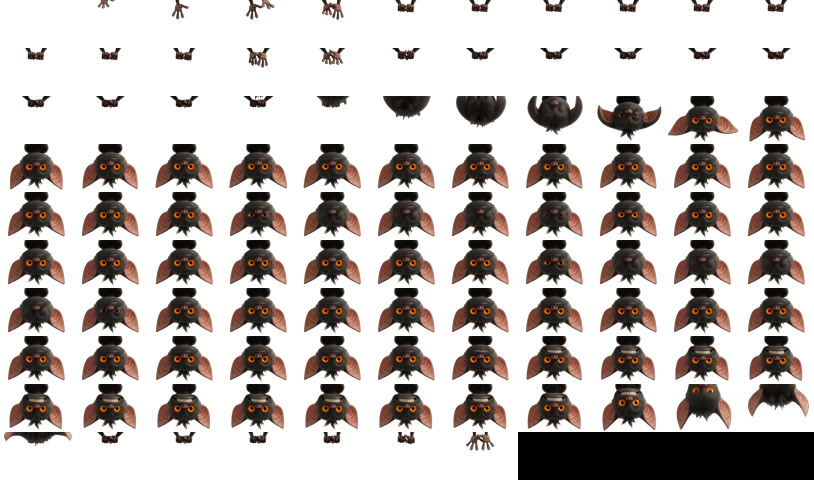
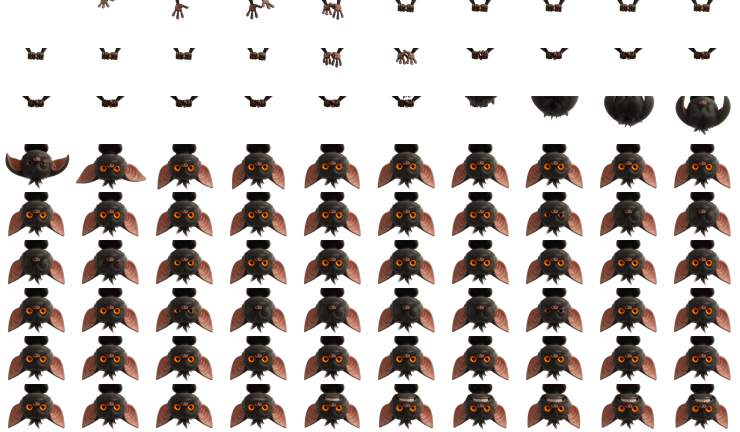
Bar in front of the body, hands in front of the bar
The creature climbs down from BEHIND the bar, so the bar has to occlude its
body - but its fingers curl over the front face and must draw on top. A single
window can only be above the bar or below it, so this renders the same sheet
twice from one frame counter:

  overlay (3)  hands slice, rows [0, handRows)
  top     (2)  the bar
  bottom  (1)  body slice,  rows [handRows, frameH)

The Sprite component gained srcTop/srcRows to render a row window of each frame,
and k is now set by the owner from the FULL frame height so both slices scale
identically and cannot drift. The hands slice binds its frame to the body's, so
they stay in lockstep, and its mask is empty - every click passes through it.

Also cut the sheet at frame 99. Frames 100-105 were hands-only, which is what
was lingering at the end, and the thin dark vertical mark lived between them.
90 frames now.

diff --git a/BarWidget.qml b/BarWidget.qml
@@ -48,7 +48,7 @@ Item {
   readonly property bool ownsHang:
     Quickshell.screens.length > 0 && Screen.name === Quickshell.screens[0].name
 
-  readonly property int spriteFrames: 106
+  readonly property int spriteFrames: 90
 
   // A sprite sheet played by translating one clipped Image.
   //
@@ -65,12 +65,20 @@ Item {
     property int    frameH: 180
     property int    frames: 42
     property int    fps: 12
+    // Render only rows [srcTop, srcTop+srcRows) of each frame. Lets one sheet
+    // and one frame counter drive two views on different layers, so the bar can
+    // sit between the creature's body and its hands.
+    property int    srcTop: 0
+    property int    srcRows: 0          // 0 = whole frame
     property int    frame: 0
     property bool   reverse: false
     signal finished()
 
     clip: true
-    readonly property real k: height > 0 ? height / frameH : 1
+    readonly property int rows: srcRows > 0 ? srcRows : frameH
+    // k is set by the owner from the FULL frame height, not this slice, so two
+    // slices of the same sheet scale identically and stay aligned.
+    property real k: height > 0 ? height / frameH : 1
 
     // Fade the tail. Even with a clean exit in the source, cutting straight to
     // nothing on the last frame reads as the animation breaking rather than
@@ -79,13 +87,14 @@ Item {
     opacity: (ticker.running && sp.frame > sp.frames - sp.fadeFrames)
              ? Math.max(0, (sp.frames - sp.frame) / sp.fadeFrames) : 1
     implicitWidth: Math.round(frameW * k)
+    implicitHeight: Math.round(rows * k)
 
     Image {
       source: sp.sheet
       width:  Math.round(sp.cols * sp.frameW * sp.k)
       height: Math.round(Math.ceil(sp.frames / sp.cols) * sp.frameH * sp.k)
       x: -Math.round((sp.frame % sp.cols) * sp.frameW * sp.k)
-      y: -Math.round(Math.floor(sp.frame / sp.cols) * sp.frameH * sp.k)
+      y: -Math.round((Math.floor(sp.frame / sp.cols) * sp.frameH + sp.srcTop) * sp.k)
       smooth: true
       cache: true
     }
@@ -141,35 +150,84 @@ Item {
   Loader { id: peekL;    active: root.style === "peek";    anchors.fill: parent; sourceComponent: peekComp }
 
   // ---------------- hang ----------------
+  //
+  // TWO layer surfaces, not one. The creature climbs down from behind the bar,
+  // so the bar must occlude its body - but its fingers curl over the front of
+  // the bar and must be drawn on top of it. A single window can only be above
+  // or below; this is the sandwich:
+  //
+  //     overlay (3)  hands slice   <- rows [0, handRows)
+  //     top     (2)  the bar itself
+  //     bottom  (1)  body slice    <- rows [handRows, frameH)
+  //
+  // One sheet, one frame counter: the hands slice binds its frame to the body
+  // slice, so they can never drift apart.
   Component {
     id: hangComp
-    PanelWindow {
-      id: win
-      // exclusionMode Ignore is mandatory: a layer surface that reserves space
-      // would push every window on the screen down to make room for a gremlin.
-      visible: !root.away && (root.watching || sprite.playing)
-      anchors { top: true; left: true; right: true }
-      implicitHeight: root.barPixels + root.hangHeight
-      color: "transparent"
-      WlrLayershell.namespace: "omarchy-gremlins-hang"
-      WlrLayershell.layer: WlrLayer.Overlay
-      WlrLayershell.keyboardFocus: WlrKeyboardFocus.None
-      exclusionMode: ExclusionMode.Ignore
-      mask: Region { item: sprite }   // only the creature takes clicks
+    Item {
+      id: hangRoot
+      property alias sprite: bodySprite
 
-      function arrive() { sprite.play(false) }
+      function arrive() { bodySprite.play(false) }
       function leave()  { }        // the sheet ends with it already gone
-      function reset()  { sprite.halt(); sprite.frame = 0 }
+      function reset()  { bodySprite.halt(); bodySprite.frame = 0 }
 
-      Sprite {
-        id: sprite
-        sheet: Qt.resolvedUrl("assets/descend-big.png")
-        cols: 11; frameW: 247; frameH: 160; frames: root.spriteFrames; fps: 12
-        height: root.hangHeight
-        width: Math.round(root.hangHeight * 247 / 160)
-        y: root.barPixels - root.gripOverlap
-        x: Math.round((win.width - width) * root.hangX)
-        MouseArea { anchors.fill: parent; cursorShape: Qt.PointingHandCursor; onClicked: root.trigger() }
+      readonly property real k: root.hangHeight / 160
+      readonly property int  handRows: Math.max(1, Math.round(root.gripOverlap / k))
+      readonly property int  spriteW: Math.round(247 * k)
+
+      // body - beneath the bar
+      PanelWindow {
+        id: bodyWin
+        visible: !root.away && (root.watching || bodySprite.playing)
+        anchors { top: true; left: true; right: true }
+        implicitHeight: root.barPixels + root.hangHeight
+        color: "transparent"
+        WlrLayershell.namespace: "omarchy-gremlins-body"
+        WlrLayershell.layer: WlrLayer.Bottom
+        WlrLayershell.keyboardFocus: WlrKeyboardFocus.None
+        exclusionMode: ExclusionMode.Ignore
+        mask: Region { item: bodySprite }
+
+        Sprite {
+          id: bodySprite
+          sheet: Qt.resolvedUrl("assets/descend-big.png")
+          cols: 10; frameW: 247; frameH: 160; frames: root.spriteFrames; fps: 12
+          k: hangRoot.k
+          srcTop: hangRoot.handRows
+          srcRows: 160 - hangRoot.handRows
+          x: Math.round((bodyWin.width - hangRoot.spriteW) * root.hangX)
+          y: root.barPixels
+          MouseArea { anchors.fill: parent; cursorShape: Qt.PointingHandCursor; onClicked: root.trigger() }
+        }
+      }
+
+      // hands - above the bar. Fully click-through: an empty mask means every
+      // click passes straight through to whatever is underneath.
+      PanelWindow {
+        id: handWin
+        visible: bodyWin.visible
+        anchors { top: true; left: true; right: true }
+        implicitHeight: root.barPixels
+        color: "transparent"
+        WlrLayershell.namespace: "omarchy-gremlins-hands"
+        WlrLayershell.layer: WlrLayer.Overlay
+        WlrLayershell.keyboardFocus: WlrKeyboardFocus.None
+        exclusionMode: ExclusionMode.Ignore
+        mask: Region {}
+
+        Sprite {
+          id: handSprite
+          sheet: Qt.resolvedUrl("assets/descend-big.png")
+          cols: 10; frameW: 247; frameH: 160; frames: root.spriteFrames; fps: 12
+          k: hangRoot.k
+          srcTop: 0
+          srcRows: hangRoot.handRows
+          frame: bodySprite.frame          // slaved - its own ticker never runs
+          opacity: bodySprite.opacity
+          x: Math.round((handWin.width - hangRoot.spriteW) * root.hangX)
+          y: root.barPixels - root.gripOverlap
+        }
       }
     }
   }
@@ -180,7 +238,7 @@ Item {
     Sprite {
       id: small
       sheet: Qt.resolvedUrl("assets/descend.png")
-      cols: 11; frameW: 74; frameH: 48; frames: root.spriteFrames; fps: 12
+      cols: 10; frameW: 74; frameH: 48; frames: root.spriteFrames; fps: 12
       height: root.height
       width: root.width
       opacity: root.away ? 0 : 1
